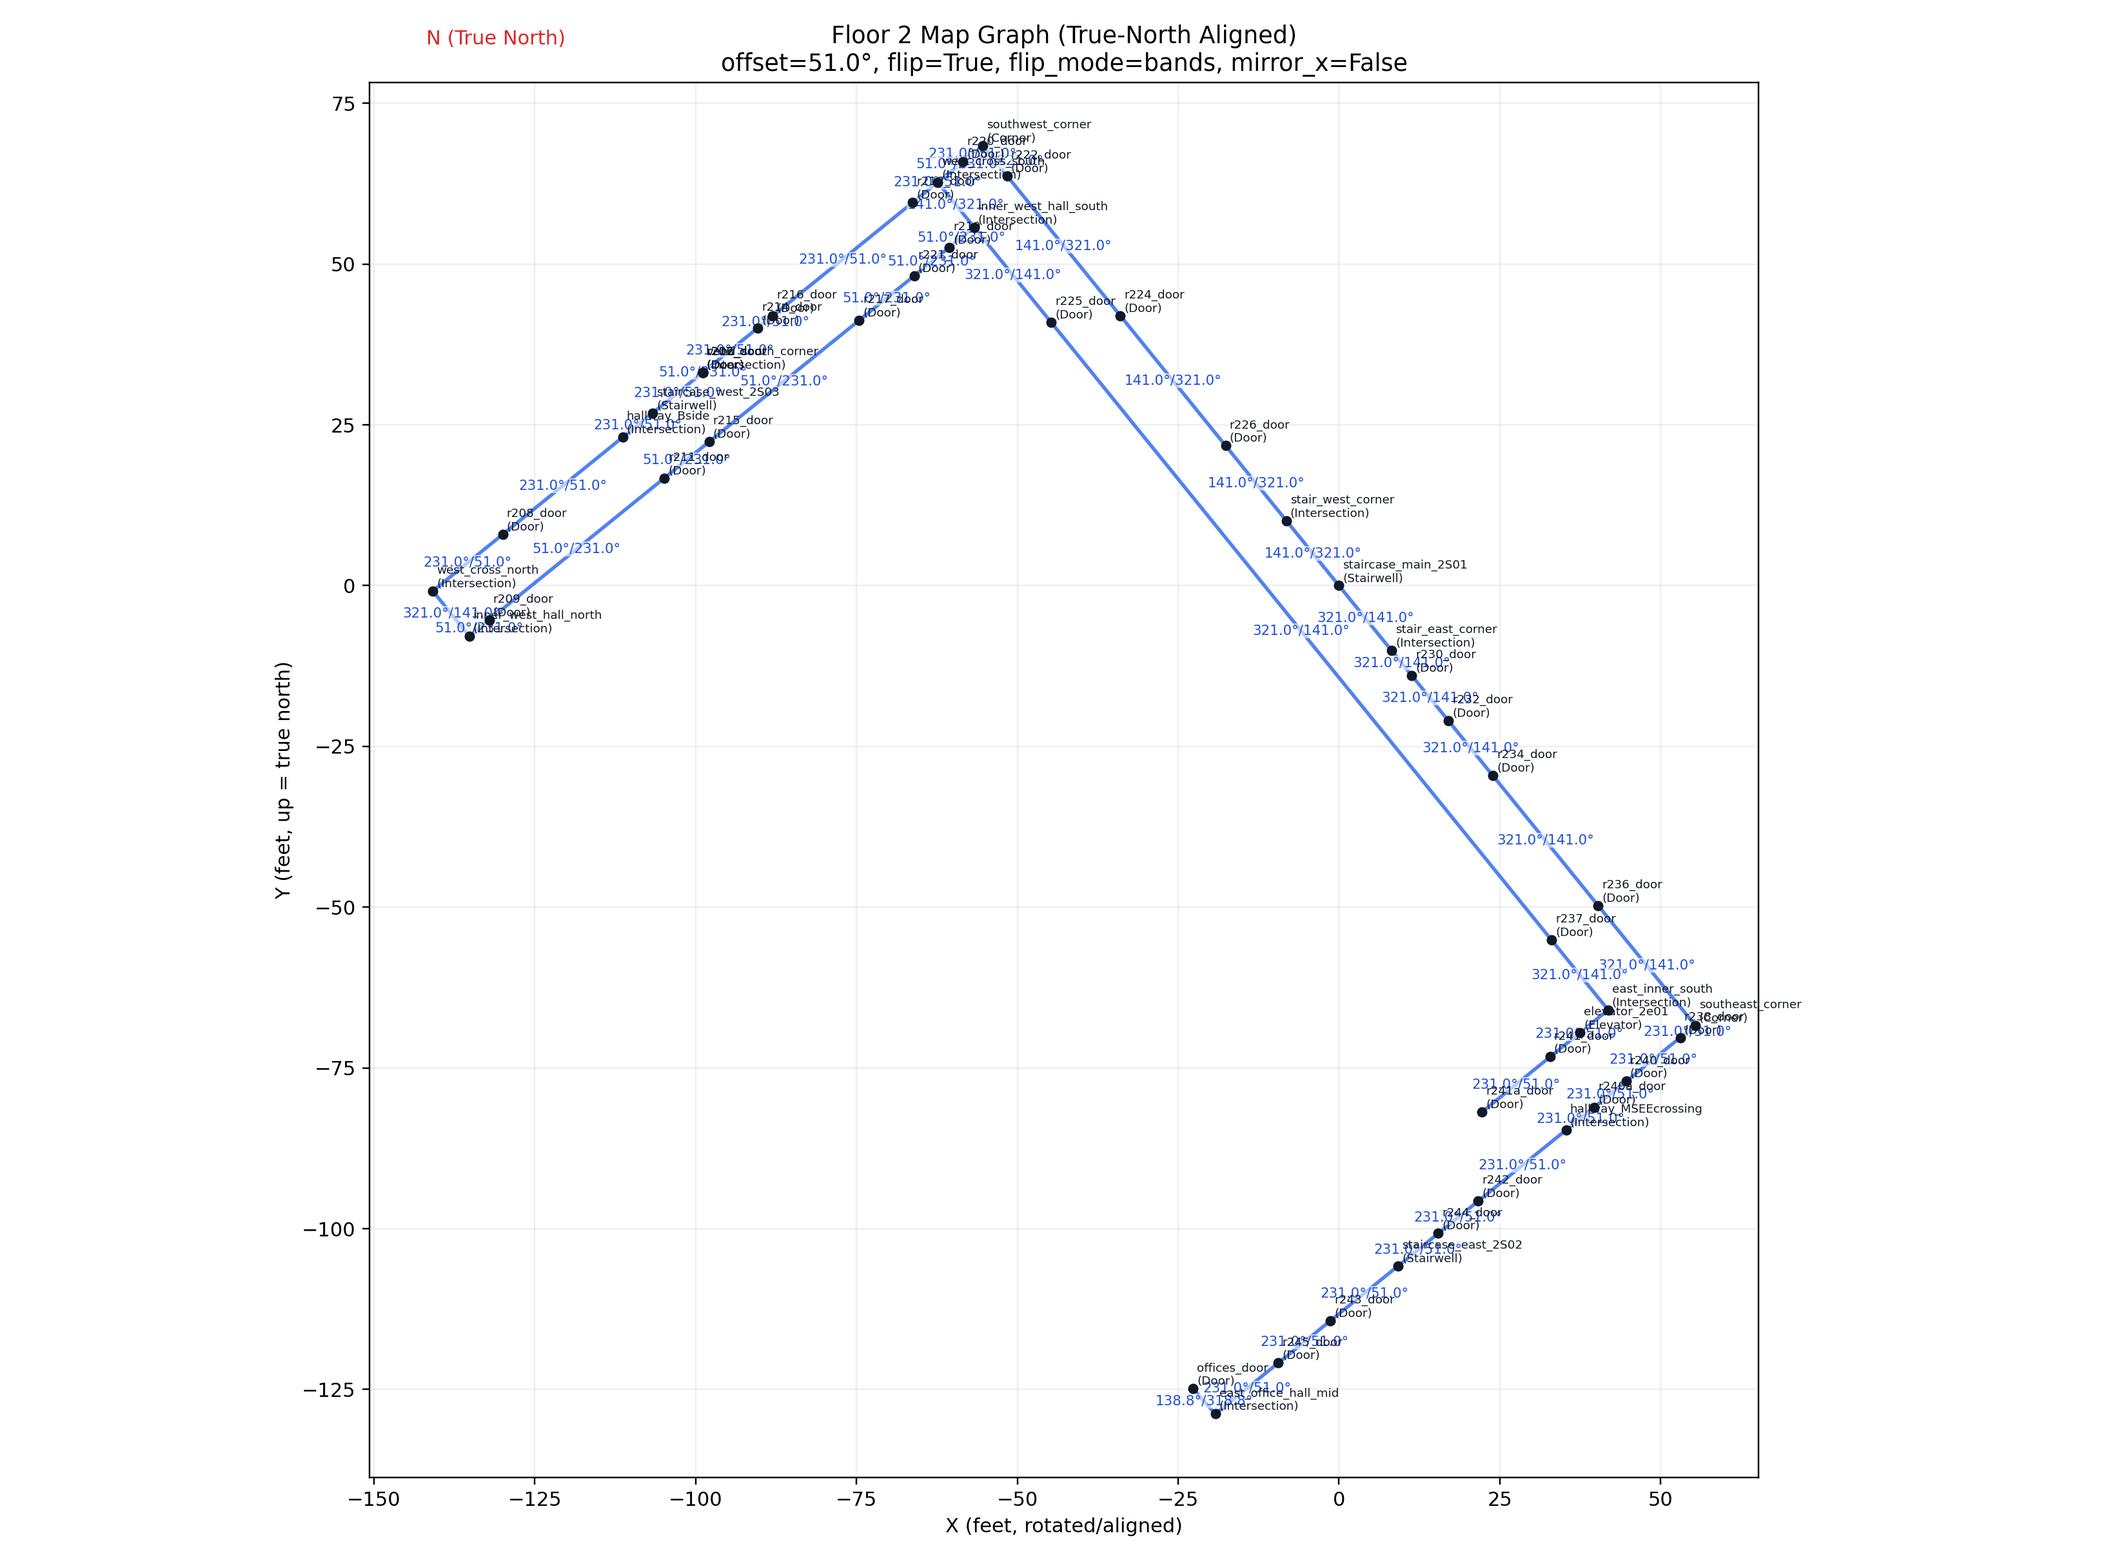
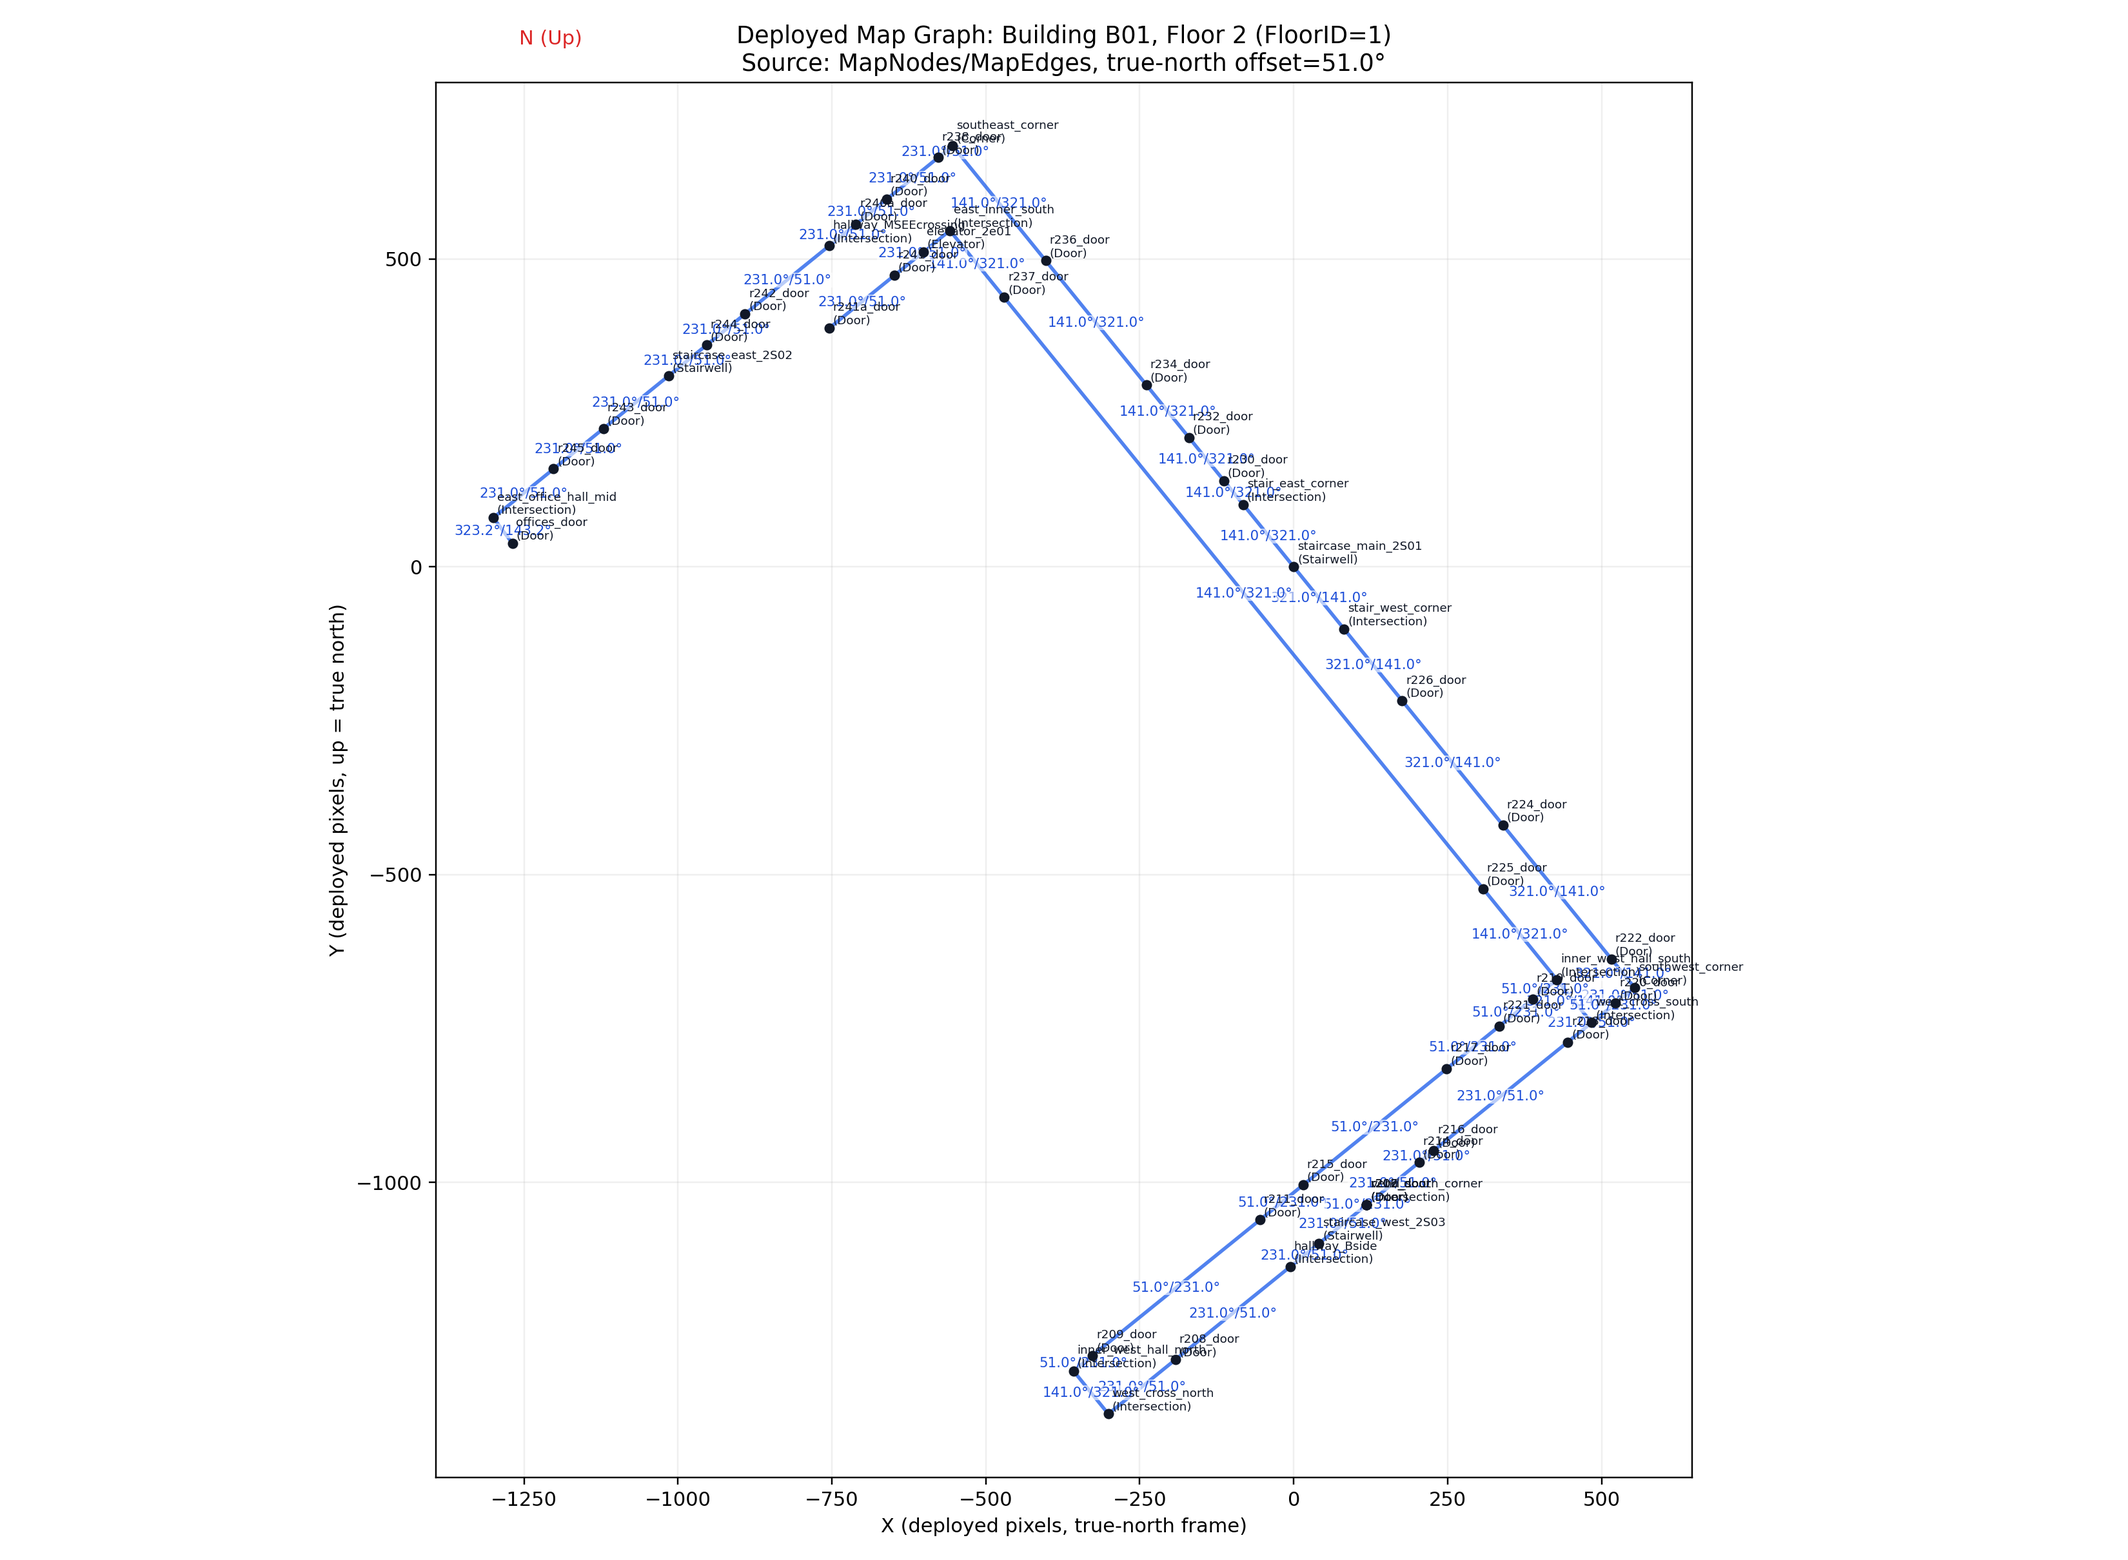
udpated map to plot from real data deployed to map DB

diff --git a/aws_resources/data_population/plot_map_graph.py b/aws_resources/data_population/plot_map_graph.py
@@ -1,98 +1,161 @@
 """
-Draw floor map nodes/edges with labels and true-compass edge headings.
+Draw floor map nodes/edges from deployed DB state (MapNodes/MapEdges).
 
-The plot is transformed so that the top of the image is true north.
+This visualizes what is actively deployed, not local floor_data/*.py.
+Coordinates are transformed so plot-up is true north.
 
 Examples:
   python plot_map_graph.py
-  python plot_map_graph.py --floor-number 2 --output floor2_true_north.png
-  python plot_map_graph.py --offset 51 --flip true --flip-mode bands
+  python plot_map_graph.py --floor-number 2 --building-id B01 --output floor_map_deployed.png
+  python plot_map_graph.py --show-edge-bearings
 """
 
 import argparse
 import math
-from typing import Dict, Tuple
+import ssl
+from typing import Dict, List, Tuple
 
-from floor_data.floor2 import FLOOR2_DATA
-from populate_floor_data import align_bearing_to_true_north, calculate_bearing
+import pg8000
+from dotenv import load_dotenv
+
+from populate_floor_data import get_db_secret
+
+load_dotenv()
 
 
-def _parse_bool(val: str) -> bool:
-    return val.strip().lower() in ("1", "true", "yes", "on")
+def _connect():
+    creds = get_db_secret()
+    ssl_context = ssl.create_default_context()
+    ssl_context.check_hostname = False
+    ssl_context.verify_mode = ssl.CERT_NONE
+    return pg8000.connect(
+        user=creds["username"],
+        password=creds["password"],
+        host=creds["host"],
+        port=int(creds["port"]),
+        database=creds["dbname"],
+        ssl_context=ssl_context,
+    )
 
 
-def _transform_for_true_north(
-    x_feet: float,
-    y_feet: float,
+def _resolve_floor_id(cursor, building_id: str, floor_number: int) -> int:
+    cursor.execute(
+        """
+        SELECT FloorID
+        FROM Floors
+        WHERE BuildingID = %s AND FloorNumber = %s
+        LIMIT 1
+        """,
+        (building_id, floor_number),
+    )
+    row = cursor.fetchone()
+    if not row:
+        raise ValueError(f"No floor found for BuildingID={building_id}, FloorNumber={floor_number}")
+    return int(row[0])
+
+
+def _fetch_nodes(cursor, floor_id: int) -> Dict[str, dict]:
+    cursor.execute(
+        """
+        SELECT NodeIDString, CoordinateX, CoordinateY, NodeType
+        FROM MapNodes
+        WHERE FloorID = %s
+        ORDER BY NodeIDString
+        """,
+        (floor_id,),
+    )
+    rows = cursor.fetchall()
+    return {
+        str(node_id): {
+            "x": float(x),
+            "y": float(y),
+            "type": str(node_type or ""),
+        }
+        for node_id, x, y, node_type in rows
+    }
+
+
+def _fetch_edges(cursor, floor_id: int) -> List[dict]:
+    cursor.execute(
+        """
+        SELECT StartNodeID, EndNodeID, Bearing, IsBidirectional
+        FROM MapEdges
+        WHERE FloorID = %s
+        ORDER BY EdgeID
+        """,
+        (floor_id,),
+    )
+    rows = cursor.fetchall()
+    edges: List[dict] = []
+    for start_id, end_id, bearing, bidir in rows:
+        edges.append(
+            {
+                "start": str(start_id),
+                "end": str(end_id),
+                "bearing": None if bearing is None else float(bearing),
+                "bidirectional": bool(bidir),
+            }
+        )
+    return edges
+
+
+def _to_plot_coords_true_north(
+    x_px: float,
+    y_px: float,
     true_north_offset_deg: float,
-    mirror_x: bool,
 ) -> Tuple[float, float]:
     """
-    Convert floor-data coordinates to plotting coordinates.
-
-    - Floor data uses screen-style Y (increasing downward).
-    - Matplotlib uses math-style Y (increasing upward).
-    - Then rotate clockwise by the true-north offset so the plot's +Y is true north.
+    DB coordinates are screen-style (y increases downward).
+    Convert to true-north plotting coordinates:
+    - invert Y to math-style coordinates
+    - rotate clockwise by true north offset (CCW by -offset)
     """
-    x = -x_feet if mirror_x else x_feet
-    y = -y_feet
-
-    # Clockwise rotation by offset == CCW rotation by -offset.
+    x = x_px
+    y = -y_px
     angle = math.radians(-true_north_offset_deg)
     x_rot = (x * math.cos(angle)) - (y * math.sin(angle))
     y_rot = (x * math.sin(angle)) + (y * math.cos(angle))
     return x_rot, y_rot
 
 
-def _get_floor_record(floor_number: int):
-    for floor in FLOOR2_DATA.get("floors", []):
-        if floor.get("floor_number") == floor_number:
-            return floor
-    raise ValueError(f"Floor {floor_number} not found in FLOOR2_DATA")
-
-
-def _build_nodes(floor) -> Dict[str, dict]:
-    return {node["id"]: node for node in floor.get("nodes", [])}
-
-
 def main():
     parser = argparse.ArgumentParser()
+    parser.add_argument("--building-id", default="B01")
     parser.add_argument("--floor-number", type=int, default=2)
     parser.add_argument("--output", default="floor_map_true_north.png")
-    parser.add_argument("--offset", type=float, default=51.0)
-    parser.add_argument("--flip", default="true", help="true/false for horizontal bearing flip")
-    parser.add_argument("--flip-mode", choices=["bands", "cones"], default="bands")
     parser.add_argument(
-        "--mirror-x",
-        default="false",
-        help="Mirror X coordinates before rotation (true/false). "
-        "Use true if map east/west is visually reversed.",
+        "--offset",
+        type=float,
+        default=51.0,
+        help="True-north offset degrees used to rotate deployed coordinates (default: 51).",
     )
+    parser.add_argument("--show-edge-bearings", action="store_true")
     parser.add_argument("--show", action="store_true", help="Show interactive plot window")
     args = parser.parse_args()
-
-    apply_flip = _parse_bool(args.flip)
-    mirror_x = _parse_bool(args.mirror_x)
 
     try:
         import matplotlib.pyplot as plt
     except ImportError as exc:
-        raise SystemExit(
-            "matplotlib is required. Install with: pip install matplotlib"
-        ) from exc
+        raise SystemExit("matplotlib is required. Install with: pip install matplotlib") from exc
 
-    floor = _get_floor_record(args.floor_number)
-    nodes = _build_nodes(floor)
-    edges = floor.get("edges", [])
+    conn = None
+    try:
+        conn = _connect()
+        cursor = conn.cursor()
+        floor_id = _resolve_floor_id(cursor, args.building_id, args.floor_number)
+        nodes = _fetch_nodes(cursor, floor_id)
+        edges = _fetch_edges(cursor, floor_id)
+    finally:
+        if conn:
+            conn.close()
 
-    transformed = {}
-    for node_id, node in nodes.items():
-        transformed[node_id] = _transform_for_true_north(
-            x_feet=node["x_feet"],
-            y_feet=node["y_feet"],
-            true_north_offset_deg=args.offset,
-            mirror_x=mirror_x,
-        )
+    if not nodes:
+        raise SystemExit("No nodes found for requested floor.")
+
+    transformed = {
+        node_id: _to_plot_coords_true_north(v["x"], v["y"], args.offset)
+        for node_id, v in nodes.items()
+    }
 
     fig, ax = plt.subplots(figsize=(15, 11))
 
@@ -100,39 +163,33 @@ def main():
     for edge in edges:
         start_id = edge["start"]
         end_id = edge["end"]
+        if start_id not in transformed or end_id not in transformed:
+            continue
         x1, y1 = transformed[start_id]
         x2, y2 = transformed[end_id]
 
         ax.plot([x1, x2], [y1, y2], color="#2563eb", linewidth=1.8, alpha=0.8)
 
-        # Heading label in true-compass convention.
-        raw = calculate_bearing(
-            nodes[start_id]["x_feet"],
-            nodes[start_id]["y_feet"],
-            nodes[end_id]["x_feet"],
-            nodes[end_id]["y_feet"],
-        )
-        heading = align_bearing_to_true_north(
-            raw_bearing_deg=raw,
-            offset_deg=args.offset,
-            apply_horizontal_flip=apply_flip,
-            horizontal_mode=args.flip_mode,
-        )
-        is_bidirectional = edge.get("bidirectional", True)
-        label = f"{heading:.1f}°" if not is_bidirectional else f"{heading:.1f}°/{(heading + 180) % 360:.1f}°"
-
-        xm = (x1 + x2) / 2.0
-        ym = (y1 + y2) / 2.0
-        ax.text(
-            xm,
-            ym,
-            label,
-            fontsize=7,
-            color="#1d4ed8",
-            bbox={"facecolor": "white", "edgecolor": "none", "alpha": 0.6, "pad": 0.5},
-            ha="center",
-            va="center",
-        )
+        if args.show_edge_bearings and edge["bearing"] is not None:
+            heading = edge["bearing"]
+            is_bidirectional = edge["bidirectional"]
+            label = (
+                f"{heading:.1f}°"
+                if not is_bidirectional
+                else f"{heading:.1f}°/{(heading + 180) % 360:.1f}°"
+            )
+            xm = (x1 + x2) / 2.0
+            ym = (y1 + y2) / 2.0
+            ax.text(
+                xm,
+                ym,
+                label,
+                fontsize=7,
+                color="#1d4ed8",
+                bbox={"facecolor": "white", "edgecolor": "none", "alpha": 0.6, "pad": 0.5},
+                ha="center",
+                va="center",
+            )
 
     # Draw nodes and labels.
     x_vals = [pt[0] for pt in transformed.values()]
@@ -142,14 +199,14 @@ def main():
     for node_id, (x, y) in transformed.items():
         node_type = nodes[node_id].get("type", "")
         ax.text(
-            x + 0.6,
-            y + 0.6,
+            x + 6,
+            y + 6,
             f"{node_id}\n({node_type})",
             fontsize=6,
             color="#111827",
         )
 
-    # True north indicator: up in plot.
+    # North indicator (up in plot).
     x_min, x_max = min(x_vals), max(x_vals)
     y_min, y_max = min(y_vals), max(y_vals)
     span_x = max(1.0, x_max - x_min)
@@ -162,14 +219,14 @@ def main():
         xytext=(nx, ny),
         arrowprops={"arrowstyle": "->", "lw": 2, "color": "#dc2626"},
     )
-    ax.text(nx, ny + 0.13 * span_y, "N (True North)", color="#dc2626", fontsize=10, ha="center")
+    ax.text(nx, ny + 0.13 * span_y, "N (Up)", color="#dc2626", fontsize=10, ha="center")
 
     ax.set_title(
-        f"Floor {args.floor_number} Map Graph (True-North Aligned)\n"
-        f"offset={args.offset}°, flip={apply_flip}, flip_mode={args.flip_mode}, mirror_x={mirror_x}"
+        f"Deployed Map Graph: Building {args.building_id}, Floor {args.floor_number} (FloorID={floor_id})\n"
+        f"Source: MapNodes/MapEdges, true-north offset={args.offset}°"
     )
-    ax.set_xlabel("X (feet, rotated/aligned)")
-    ax.set_ylabel("Y (feet, up = true north)")
+    ax.set_xlabel("X (deployed pixels, true-north frame)")
+    ax.set_ylabel("Y (deployed pixels, up = true north)")
     ax.grid(True, alpha=0.2)
     ax.set_aspect("equal", adjustable="box")
     ax.margins(0.05)

diff --git a/aws_resources/data_population/populate_floor_data.py b/aws_resources/data_population/populate_floor_data.py
@@ -26,6 +26,9 @@ ORIGIN_Y = 0
 # BEARING_HORIZONTAL_MODE:
 #   - "bands": horizontal if 45° <= bearing < 135° or 225° <= bearing < 315° (default)
 #   - "cones": horizontal if within 45° of exactly 90° or 270°
+# COORDINATE_MIRROR_X:
+#   - if true, persist map X coordinates mirrored (x := -x) before feet->pixels conversion
+#   - default true to match current deployment orientation expectation
 def _get_true_north_offset():
     val = os.environ.get("TRUE_NORTH_OFFSET_DEGREES", "51")
     try:
@@ -44,6 +47,11 @@ def _get_bearing_horizontal_mode():
     if mode in ("bands", "cones"):
         return mode
     return "bands"
+
+
+def _get_coordinate_mirror_x():
+    v = os.environ.get("COORDINATE_MIRROR_X", "true").strip().lower()
+    return v in ("1", "true", "yes")
 
 
 def _is_horizontal_bearing(normalized_bearing_deg, flip_mode):
@@ -115,6 +123,11 @@ def feet_to_pixels(feet):
     return int(feet * FEET_TO_PIXELS)
 
 
+def map_x_feet_for_storage(x_feet):
+    """Apply deploy-time X mirroring policy before converting to pixels."""
+    return -x_feet if _get_coordinate_mirror_x() else x_feet
+
+
 def populate_database(conn, building_data):
     """Main function to populate all tables with building data."""
     cursor = conn.cursor()
@@ -169,7 +182,7 @@ def populate_database(conn, building_data):
             node_coords = {}  # Map from custom node IDs to their pixel coordinates
             
             for node in floor_data.get('nodes', []):
-                x_pixels = feet_to_pixels(node['x_feet'])
+                x_pixels = feet_to_pixels(map_x_feet_for_storage(node['x_feet']))
                 y_pixels = feet_to_pixels(node['y_feet'])
                 
                 cursor.execute(
@@ -226,7 +239,7 @@ def populate_database(conn, building_data):
             landmarks_list = floor_data.get('landmarks', [])
             for idx, landmark in enumerate(landmarks_list):
                 landmark_id = floor_id * 10000 + (idx + 1)
-                x_pixels = feet_to_pixels(landmark['x_feet'])
+                x_pixels = feet_to_pixels(map_x_feet_for_storage(landmark['x_feet']))
                 y_pixels = feet_to_pixels(landmark['y_feet'])
                 
                 nearest_node_key = landmark.get('nearest_node')

diff --git a/aws_resources/data_population/tests/test_populate.py b/aws_resources/data_population/tests/test_populate.py
@@ -8,6 +8,7 @@ from populate_floor_data import (
     calculate_distance,
     feet_to_pixels,
     align_bearing_to_true_north,
+    map_x_feet_for_storage,
 )
 
 def test_feet_to_pixels():
@@ -134,3 +135,17 @@ def test_align_bearing_to_true_north_wraparound_negative_and_large_values():
     """Raw and offset values are normalized into [0, 360)."""
     assert align_bearing_to_true_north(-10, offset_deg=0, apply_horizontal_flip=False) == pytest.approx(350, abs=0.1)
     assert align_bearing_to_true_north(720, offset_deg=15, apply_horizontal_flip=False) == pytest.approx(15, abs=0.1)
+
+
+def test_coordinate_mirror_x_default_true(monkeypatch):
+    """By default, deployed coordinate storage mirrors X."""
+    monkeypatch.delenv("COORDINATE_MIRROR_X", raising=False)
+    assert map_x_feet_for_storage(10) == -10
+    assert map_x_feet_for_storage(-8) == 8
+
+
+def test_coordinate_mirror_x_env_override(monkeypatch):
+    """COORDINATE_MIRROR_X can disable mirroring when needed."""
+    monkeypatch.setenv("COORDINATE_MIRROR_X", "false")
+    assert map_x_feet_for_storage(10) == 10
+    assert map_x_feet_for_storage(-8) == -8
